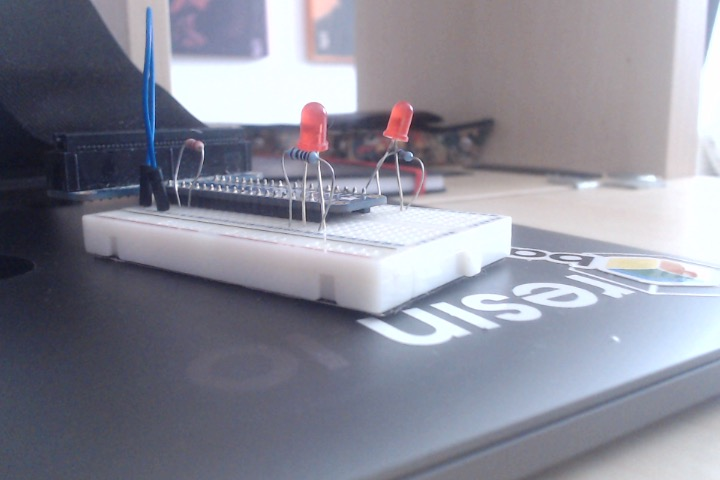
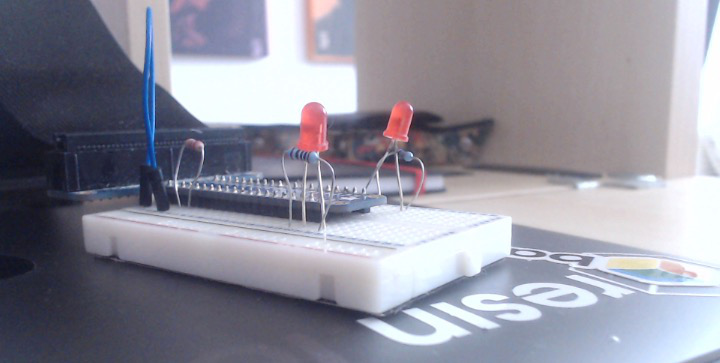
Improve use of images in readme

diff --git a/README.md b/README.md
@@ -2,6 +2,8 @@
 
 A simple API to provide a REST interface to the pins of a Raspberry Pi.
 
+![a simple breadboard](apiapi.jpg)
+
 ## Getting Started
 
 1) The first few steps of this are covered by the [resin.io getting started guide](https://docs.resin.io/learn/getting-started/raspberrypi3/python/), tweaked very slightly.
